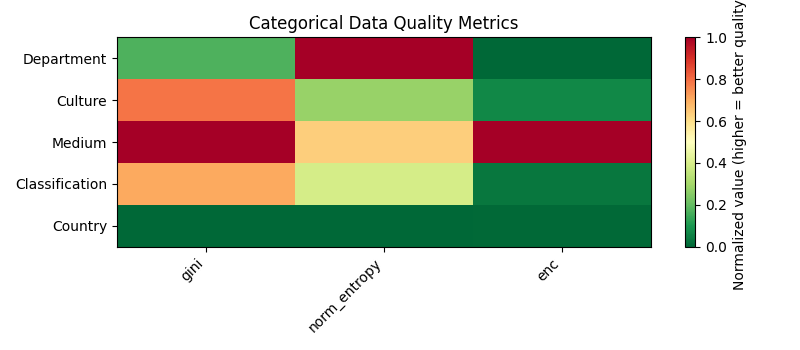
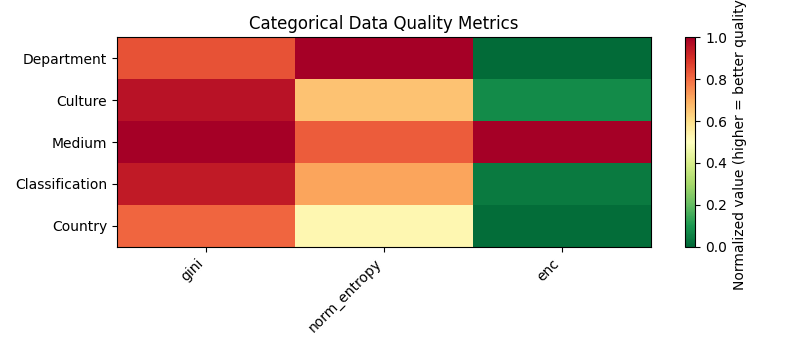
фикс

Changed region(s): [[0.125, 0.0857, 0.5938, 0.7143]]

diff --git a/Lab3/main.py b/Lab3/main.py
@@ -229,10 +229,11 @@ def plot_heatmap(metrics: Dict[str, Dict[str, Any]]) -> None:
     data_norm = data.copy()
     for i in range(data.shape[1]):
         col_vals = data[:, i]
-        if col_vals.max() - col_vals.min() > 0:
-            data_norm[:, i] = (col_vals - col_vals.min()) / (col_vals.max() - col_vals.min())  # noqa E501
+        max_val = col_vals.max()
+        if max_val > 0:
+            data_norm[:, i] = col_vals / max_val
         else:
-            data_norm[:, i] = 0.0
+            data_norm[:, i] = 0
 
     plt.figure(figsize=(8, len(cols) * 0.5 + 1))
     im = plt.imshow(data_norm, cmap='RdYlGn_r', aspect='auto', vmin=0, vmax=1)
